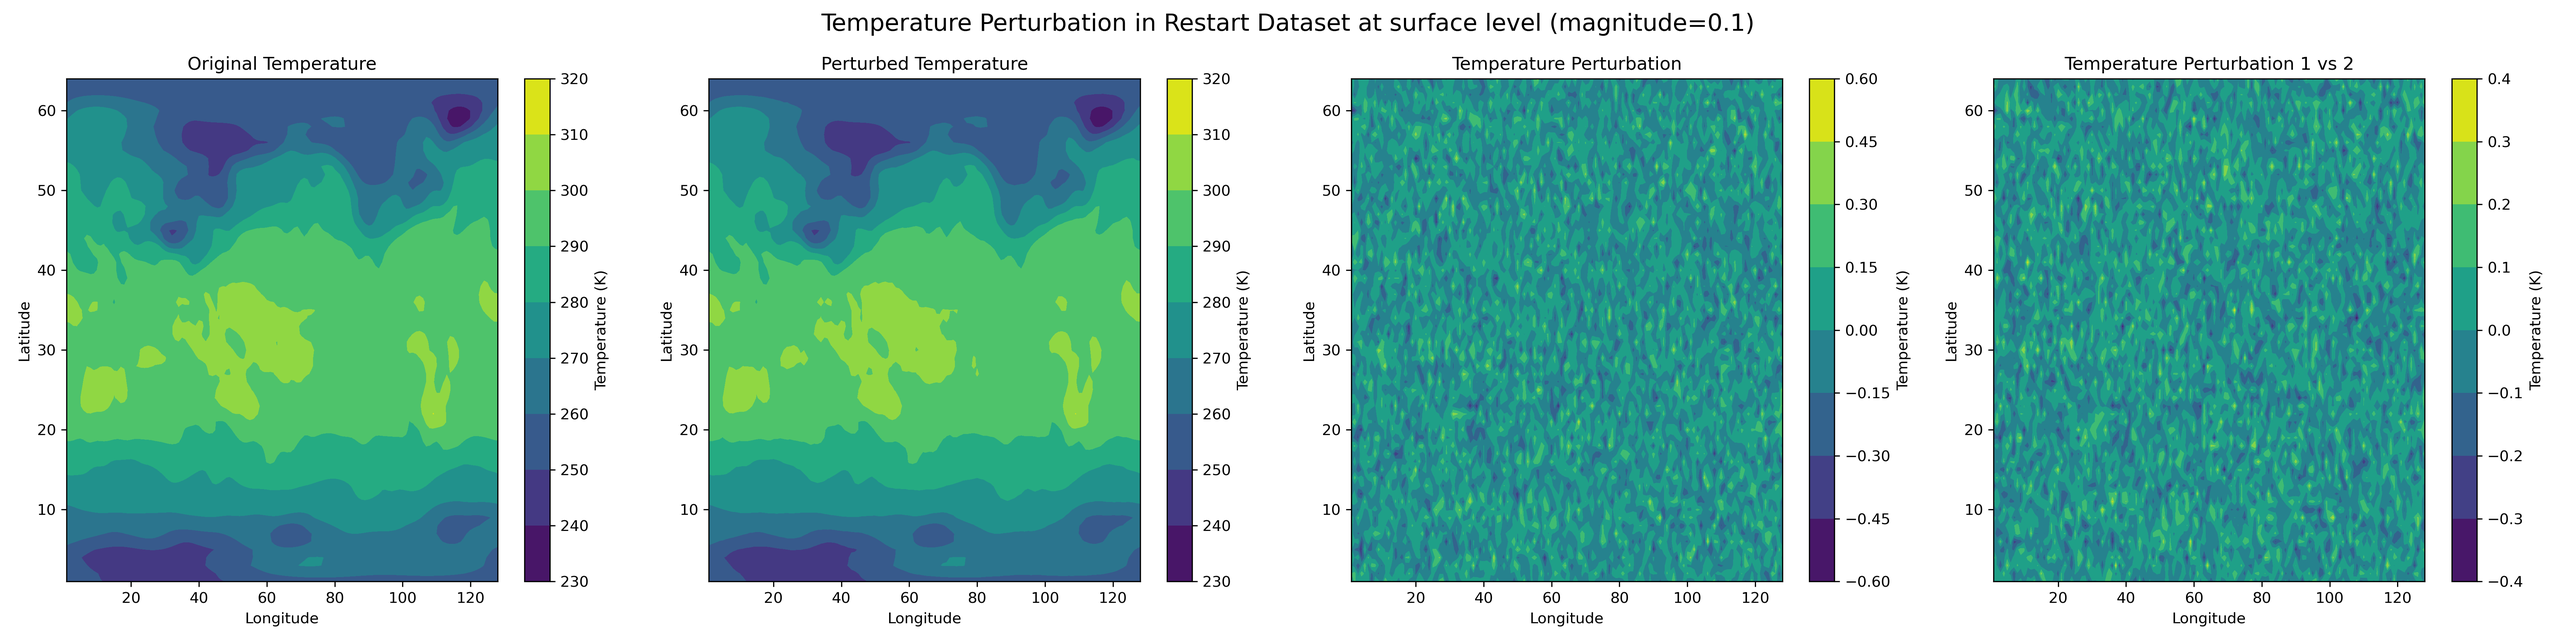
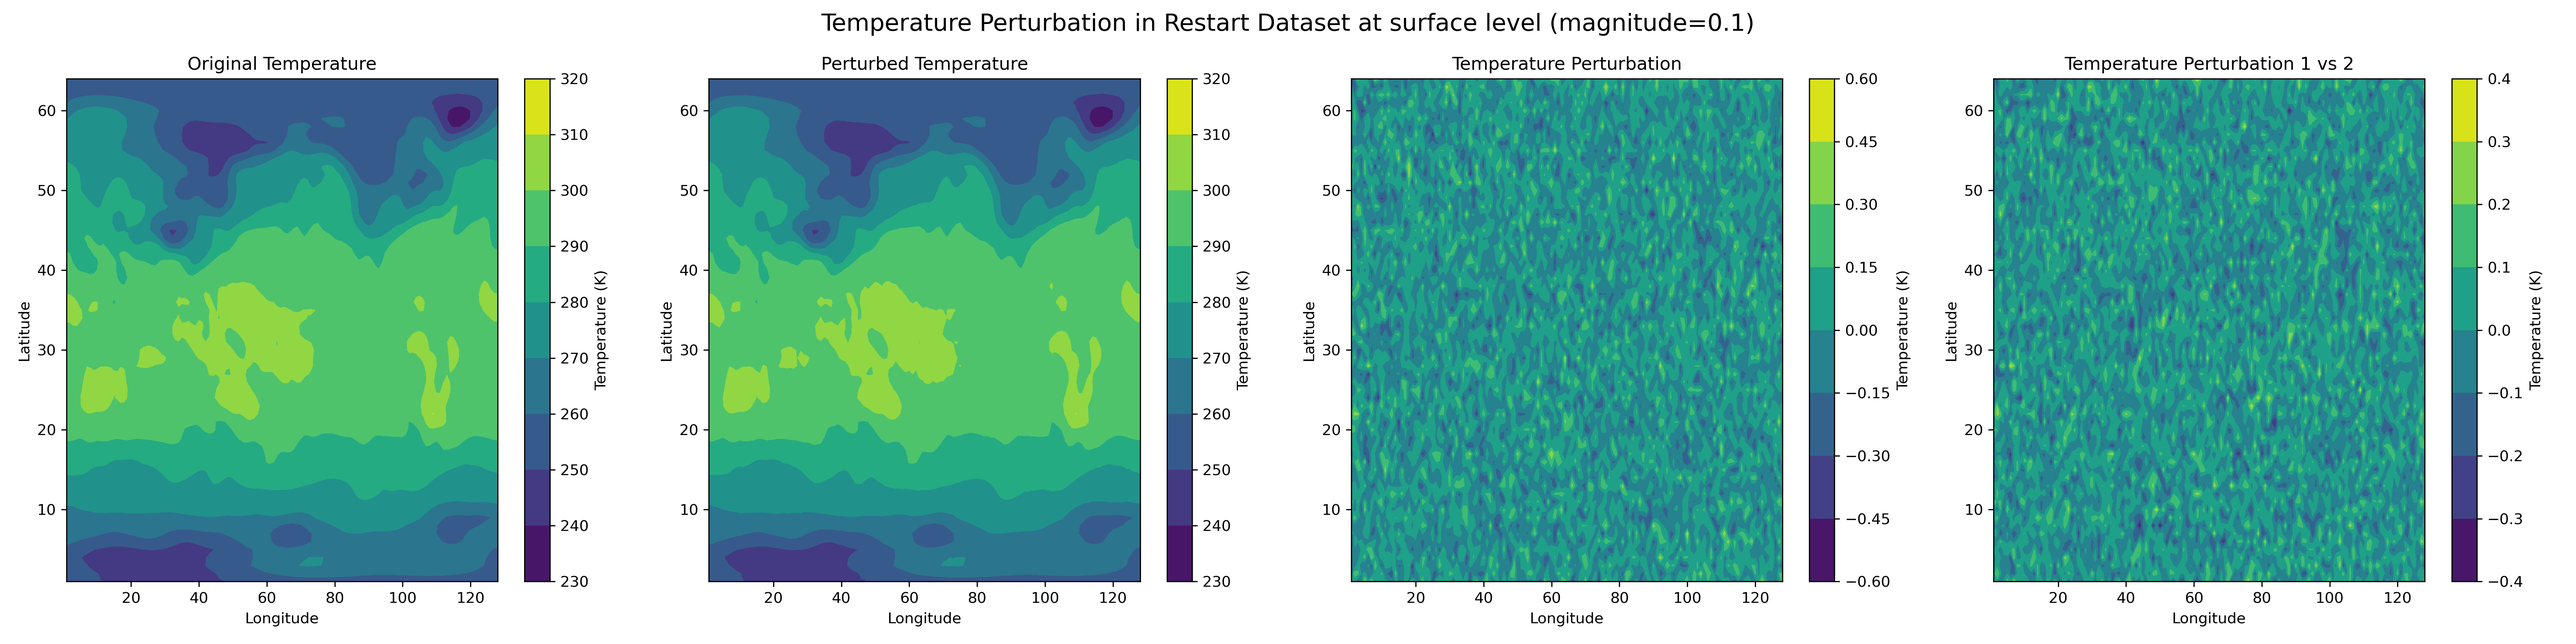
feat: RT42 perturbed experiment

Changed region(s): [[0.75, 0.1244, 0.9375, 0.9022], [0.5, 0.1244, 0.7188, 0.9022]]

diff --git a/restarts/restart_loader.py b/restarts/restart_loader.py
@@ -37,13 +37,17 @@ class RestartDataset:
         self.restart_file_path = f"{self.output_dir}/res{self.month:04d}.tar.gz"
         return os.system(f"tar -xzf {self.restart_file_path} -C {self.output_dir_files}")
     
-    def create_tar_gz(self, output_file_name, files_dir, files_to_compress):
+    def create_tar_gz(self, output_file_name, files_dir, files_to_compress, arcname_map=None):
         """Create a tar.gz file from a list of files or directories."""
         output_file = os.path.join(self.output_dir, output_file_name)
         with tarfile.open(output_file, "w:gz") as tar:
             for file_name in files_to_compress:
                 file_path = os.path.join(files_dir, file_name)
-                tar.add(file_path, arcname=os.path.basename(file_path))
+                if arcname_map and file_name in arcname_map:
+                    arcname = arcname_map[file_name]
+                else:
+                    arcname = os.path.basename(file_path)
+                tar.add(file_path, arcname=arcname)
                 
     def open_dataset(self,dataset_name):
         """Open the restart dataset for the given experiment and month."""
@@ -61,7 +65,15 @@ class RestartDataset:
             perturbation_value = self.get_perturbation_value(atmosphere_ds)
             atmosphere_ds["tg"] += perturbation_value
             perturbed_file_path = os.path.join(self.output_dir_perturbed, f"atmosphere_{i}.res.nc")
-            atmosphere_ds.to_netcdf(perturbed_file_path)
+            # Preserve unlimited Time dimension and set _FillValue to None to prevent writing it
+            encoding = {}
+            for var in atmosphere_ds.data_vars:
+                encoding[var] = atmosphere_ds[var].encoding.copy()
+                encoding[var]['_FillValue'] = None
+            for var in atmosphere_ds.coords:
+                encoding[var] = atmosphere_ds[var].encoding.copy()
+                encoding[var]['_FillValue'] = None
+            atmosphere_ds.to_netcdf(perturbed_file_path, unlimited_dims=['Time'], encoding=encoding)
         return perturbed_file_path
     
     def get_random_field(self,shape_like_array):
@@ -83,9 +95,12 @@ class RestartDataset:
             os.system(f"cp {file_path} {self.output_dir_perturbed}")
             
         for i in range(n):
-            OUTPUT_FILENAME_LIST[0] = f"atmosphere_{i}.res.nc"  
+            atmosphere_perturbed_file = f"atmosphere_{i}.res.nc"
+            OUTPUT_FILENAME_LIST[0] = atmosphere_perturbed_file  
             output_file_name = os.path.join(self.output_dir,perturbed_file_path.replace(".tar.gz", f"_{i}.tar.gz"))
-            self.create_tar_gz(output_file_name, self.output_dir_perturbed, OUTPUT_FILENAME_LIST)
+            # Map the perturbed atmosphere file to be stored as atmosphere.res.nc in the tar archive
+            arcname_map = {atmosphere_perturbed_file: "atmosphere.res.nc"}
+            self.create_tar_gz(output_file_name, self.output_dir_perturbed, OUTPUT_FILENAME_LIST, arcname_map=arcname_map)
     
 if __name__ == "__main__":
     experiment_name = str(sys.argv[1])

diff --git a/create_branch_perturbed_exp.py b/create_branch_perturbed_exp.py
@@ -1,0 +1,50 @@
+from water_vapor_age_experiment import WaterVaporAgeExperiment
+import json
+import os
+import sys 
+
+run_type = str(sys.argv[1])
+rad_type = str(sys.argv[2])
+n_restart_month = int(sys.argv[3])
+magnitude = float(sys.argv[4])
+n = int(sys.argv[5])
+RT42_bool = sys.argv[6].lower() == "true"
+print(f"Run type: {run_type}")
+print(f"Radiation type: {rad_type}")
+print(f"Restart month: {n_restart_month}")
+print(f"Perturbation magnitude: {magnitude}")
+print(f"Number of perturbed branches: {n}")
+print(f"RT42 boolean: {RT42_bool}")
+base_dir = "/home/philbou/projects/def-rfajber/philbou/wva_exp"
+# Read config from JSON file
+base_config_path = os.path.join(f"{base_dir}/config", f"config_{run_type}_{rad_type}.json")
+with open(base_config_path, "r") as f:
+        base_config_dict = json.load(f) 
+
+comment = base_config_dict.get("comment", "")
+
+
+
+if RT42_bool:
+    base_config_dict["comment"] = " | RT42 input"
+    base_config_dict["exp_name_suffix"] = "_RT42"
+    base_config_dict["horizontal_resolution"] = "T42"
+    base_config_dict["dt_atm"] = 720
+    base_config_dict["fixed_sst"] = True
+    
+exp_object = WaterVaporAgeExperiment(base_config_dict)
+config_dict = base_config_dict.copy()
+if RT42_bool: 
+        exp_object.exp_name = "RT42_sst_0_bucket"
+        run_type = "RT42_sst_0_bucket"
+
+for i in range(n):
+        restart_file = f"/home/philbou/projects/def-rfajber/philbou/wva_exp/restarts/{exp_object.exp_name}/{n_restart_month:04d}/res{n_restart_month:04d}_{magnitude}_{i}.tar.gz"
+        if not os.path.exists(restart_file):
+                raise FileNotFoundError(f"Restart file does not exist: {restart_file}")
+        config_dict["restart_file"] = restart_file
+        config_dict["comment"] = base_config_dict["comment"] +  f" | Perturbed restart file: {restart_file}"
+        config_dict["exp_name_suffix"] = base_config_dict["exp_name_suffix"] + f"_{magnitude}_{i}"
+        output_config_path = os.path.join(f"{base_dir}/config/perturbed_branch", f"config_{run_type}_{rad_type}_{magnitude}_{i}.json")
+        with open(output_config_path, "w") as f:
+                json.dump(config_dict, f, indent=4)

diff --git a/water_vapor_age_experiment.py b/water_vapor_age_experiment.py
@@ -107,7 +107,6 @@ class WaterVaporAgeExperiment(Experiment):
         print(f"{datetime.datetime.now()} :field table written for {self.n_moments} moments",file=sys.stdout, flush=True)
     
         self.set_input_files()
-        print(f"{datetime.datetime.now()} :input files set: {self.inputfiles}",file=sys.stdout, flush=True)
         
         self.diag_table = self.get_diag_table()
         print(f"{datetime.datetime.now()} :diag table set",file=sys.stdout, flush=True)
@@ -121,6 +120,7 @@ class WaterVaporAgeExperiment(Experiment):
         self.set_land()
         
         self.set_fixed_sst()
+        print(f"{datetime.datetime.now()} :input files set: {self.inputfiles}",file=sys.stdout, flush=True)
         
         print(self.namelist, file=sys.stdout, flush=True)
 
@@ -271,7 +271,7 @@ class WaterVaporAgeExperiment(Experiment):
         current_n = n_start_month + 1
         while current_n < n_end_month:
             try:
-                for i in range(current_n , n_end_month):
+                for i in range(current_n , n_end_month+1):
                     if current_n ==0: restart = False
                     else: restart = True
                     elapsed_time = self.run(i, num_cores=self.ncores, overwrite_data=True )

diff --git a/run_experiment.py b/run_experiment.py
@@ -7,9 +7,11 @@ run_type = str(sys.argv[1])
 rad_type = str(sys.argv[2])
 n_start_month = int(sys.argv[3])
 n_end_month = int(sys.argv[4])
+config_name = str(sys.argv[5])
+
 base_dir = "/home/philbou/projects/def-rfajber/philbou/wva_exp"
 # Read config from JSON file
-config_path = os.path.join(f"{base_dir}/config", f"config_{run_type}_{rad_type}.json")
+config_path = os.path.join(f"{base_dir}/config", f"{config_name}.json")
 with open(config_path, "r") as f:
         config_dict = json.load(f) 
 
